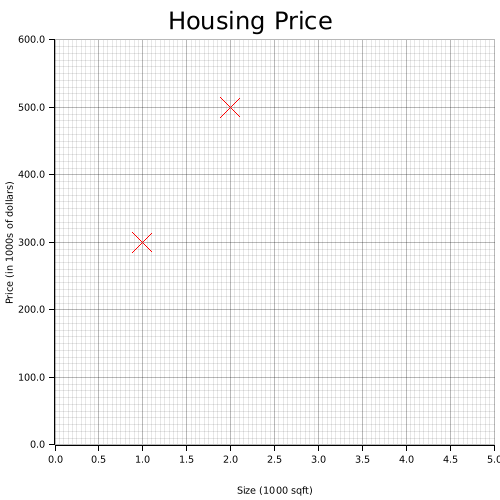
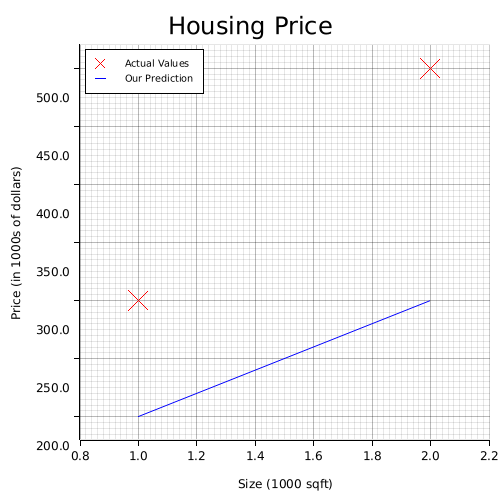
model representation final

Changed region(s): [[0.0, 0.0, 1.0, 0.93], [0.48, 0.96, 0.66, 0.99], [0.03, 0.06, 0.09, 0.09]]

diff --git a/supervised-learning/module1/lab2-model-representation/src/main.rs b/supervised-learning/module1/lab2-model-representation/src/main.rs
@@ -1,6 +1,14 @@
 use ndarray::array;
 use plotters::prelude::*;
-use std::process::Command;
+
+fn compute_model_output(x: &ndarray::Array1<f64>, w: f64, b: f64) -> ndarray::Array1<f64> {
+    let m = x.len();
+    let mut f_wb = ndarray::Array1::zeros(m);
+    for i in 0..m {
+        f_wb[i] = w * x[i] + b;
+    }
+    f_wb
+}
 
 fn main() {
     let x_train = array![1.0, 2.0];
@@ -16,33 +24,23 @@ fn main() {
     let y_i = y_train[i];
     println!("(x^({i}), y^({i})) = ({x_i}, {y_i})");
 
-    /*
-        # Plot the data points
-    plt.scatter(x_train, y_train, marker='x', c='r')
-    # Set the title
-    plt.title("Housing Prices")
-    # Set the y-axis label
-    plt.ylabel('Price (in 1000s of dollars)')
-    # Set the x-axis label
-    plt.xlabel('Size (1000 sqft)')
-    plt.show()
-        */
-
     let root = BitMapBackend::new("model-representation.png", (500, 500)).into_drawing_area();
     root.fill(&WHITE).unwrap();
 
     let mut chart = ChartBuilder::on(&root)
         .caption("Housing Price", ("sans-serif", 30))
-        .margin(5)
+        .margin(10)
         .x_label_area_size(50)
-        .y_label_area_size(50)
-        .build_cartesian_2d(0f64..5f64, 0f64..600f64)
+        .y_label_area_size(70)
+        .build_cartesian_2d(0.8f64..2.2f64, 180f64..520f64)
         .unwrap();
 
     chart
         .configure_mesh()
         .x_desc("Size (1000 sqft)")
         .y_desc("Price (in 1000s of dollars)")
+        .label_style(("sans-serif", 15))
+        .y_label_offset(30)
         .draw()
         .unwrap();
 
@@ -51,12 +49,44 @@ fn main() {
             x_train
                 .iter()
                 .zip(y_train.iter())
-                .map(|(&x, &y)| Cross::new((x, y), 10, &RED)),
+                .map(|(&x, &y)| Cross::new((x, y), 10, RED)),
         )
+        .unwrap()
+        .label("Actual Values")
+        .legend(|(x, y)| Cross::new((x + 5, y), 5, RED));
+
+    let w = 100;
+    let b = 100;
+    println!("w: {w}");
+    println!("b: {b}");
+
+    let tmp_f_wb = compute_model_output(&x_train, w as f64, b as f64);
+    println!("tmp_f_wb = {tmp_f_wb}");
+
+    chart
+        .draw_series(LineSeries::new(
+            x_train.iter().zip(tmp_f_wb.iter()).map(|(&x, &y)| (x, y)),
+            BLUE,
+        ))
+        .unwrap()
+        .label("Our Prediction")
+        .legend(|(x, y)| PathElement::new(vec![(x, y), (x + 10, y)], BLUE));
+
+    chart
+        .configure_series_labels()
+        .background_style(WHITE)
+        .border_style(BLACK)
+        .position(SeriesLabelPosition::UpperLeft)
+        .draw()
         .unwrap();
 
-    Command::new("catimg")
-        .arg("model-representation.png")
-        .status()
-        .expect("Failed to execute command");
+    root.present().unwrap();
+    println!("Plot saved to model-representation.png");
+
+    let w = 200.0;
+    let b = 100.0;
+    let x_i = 1.2;
+    let cost_1200sqft = w * x_i + b;
+
+    println!("${:.2} thousand dollars", cost_1200sqft);
 }
